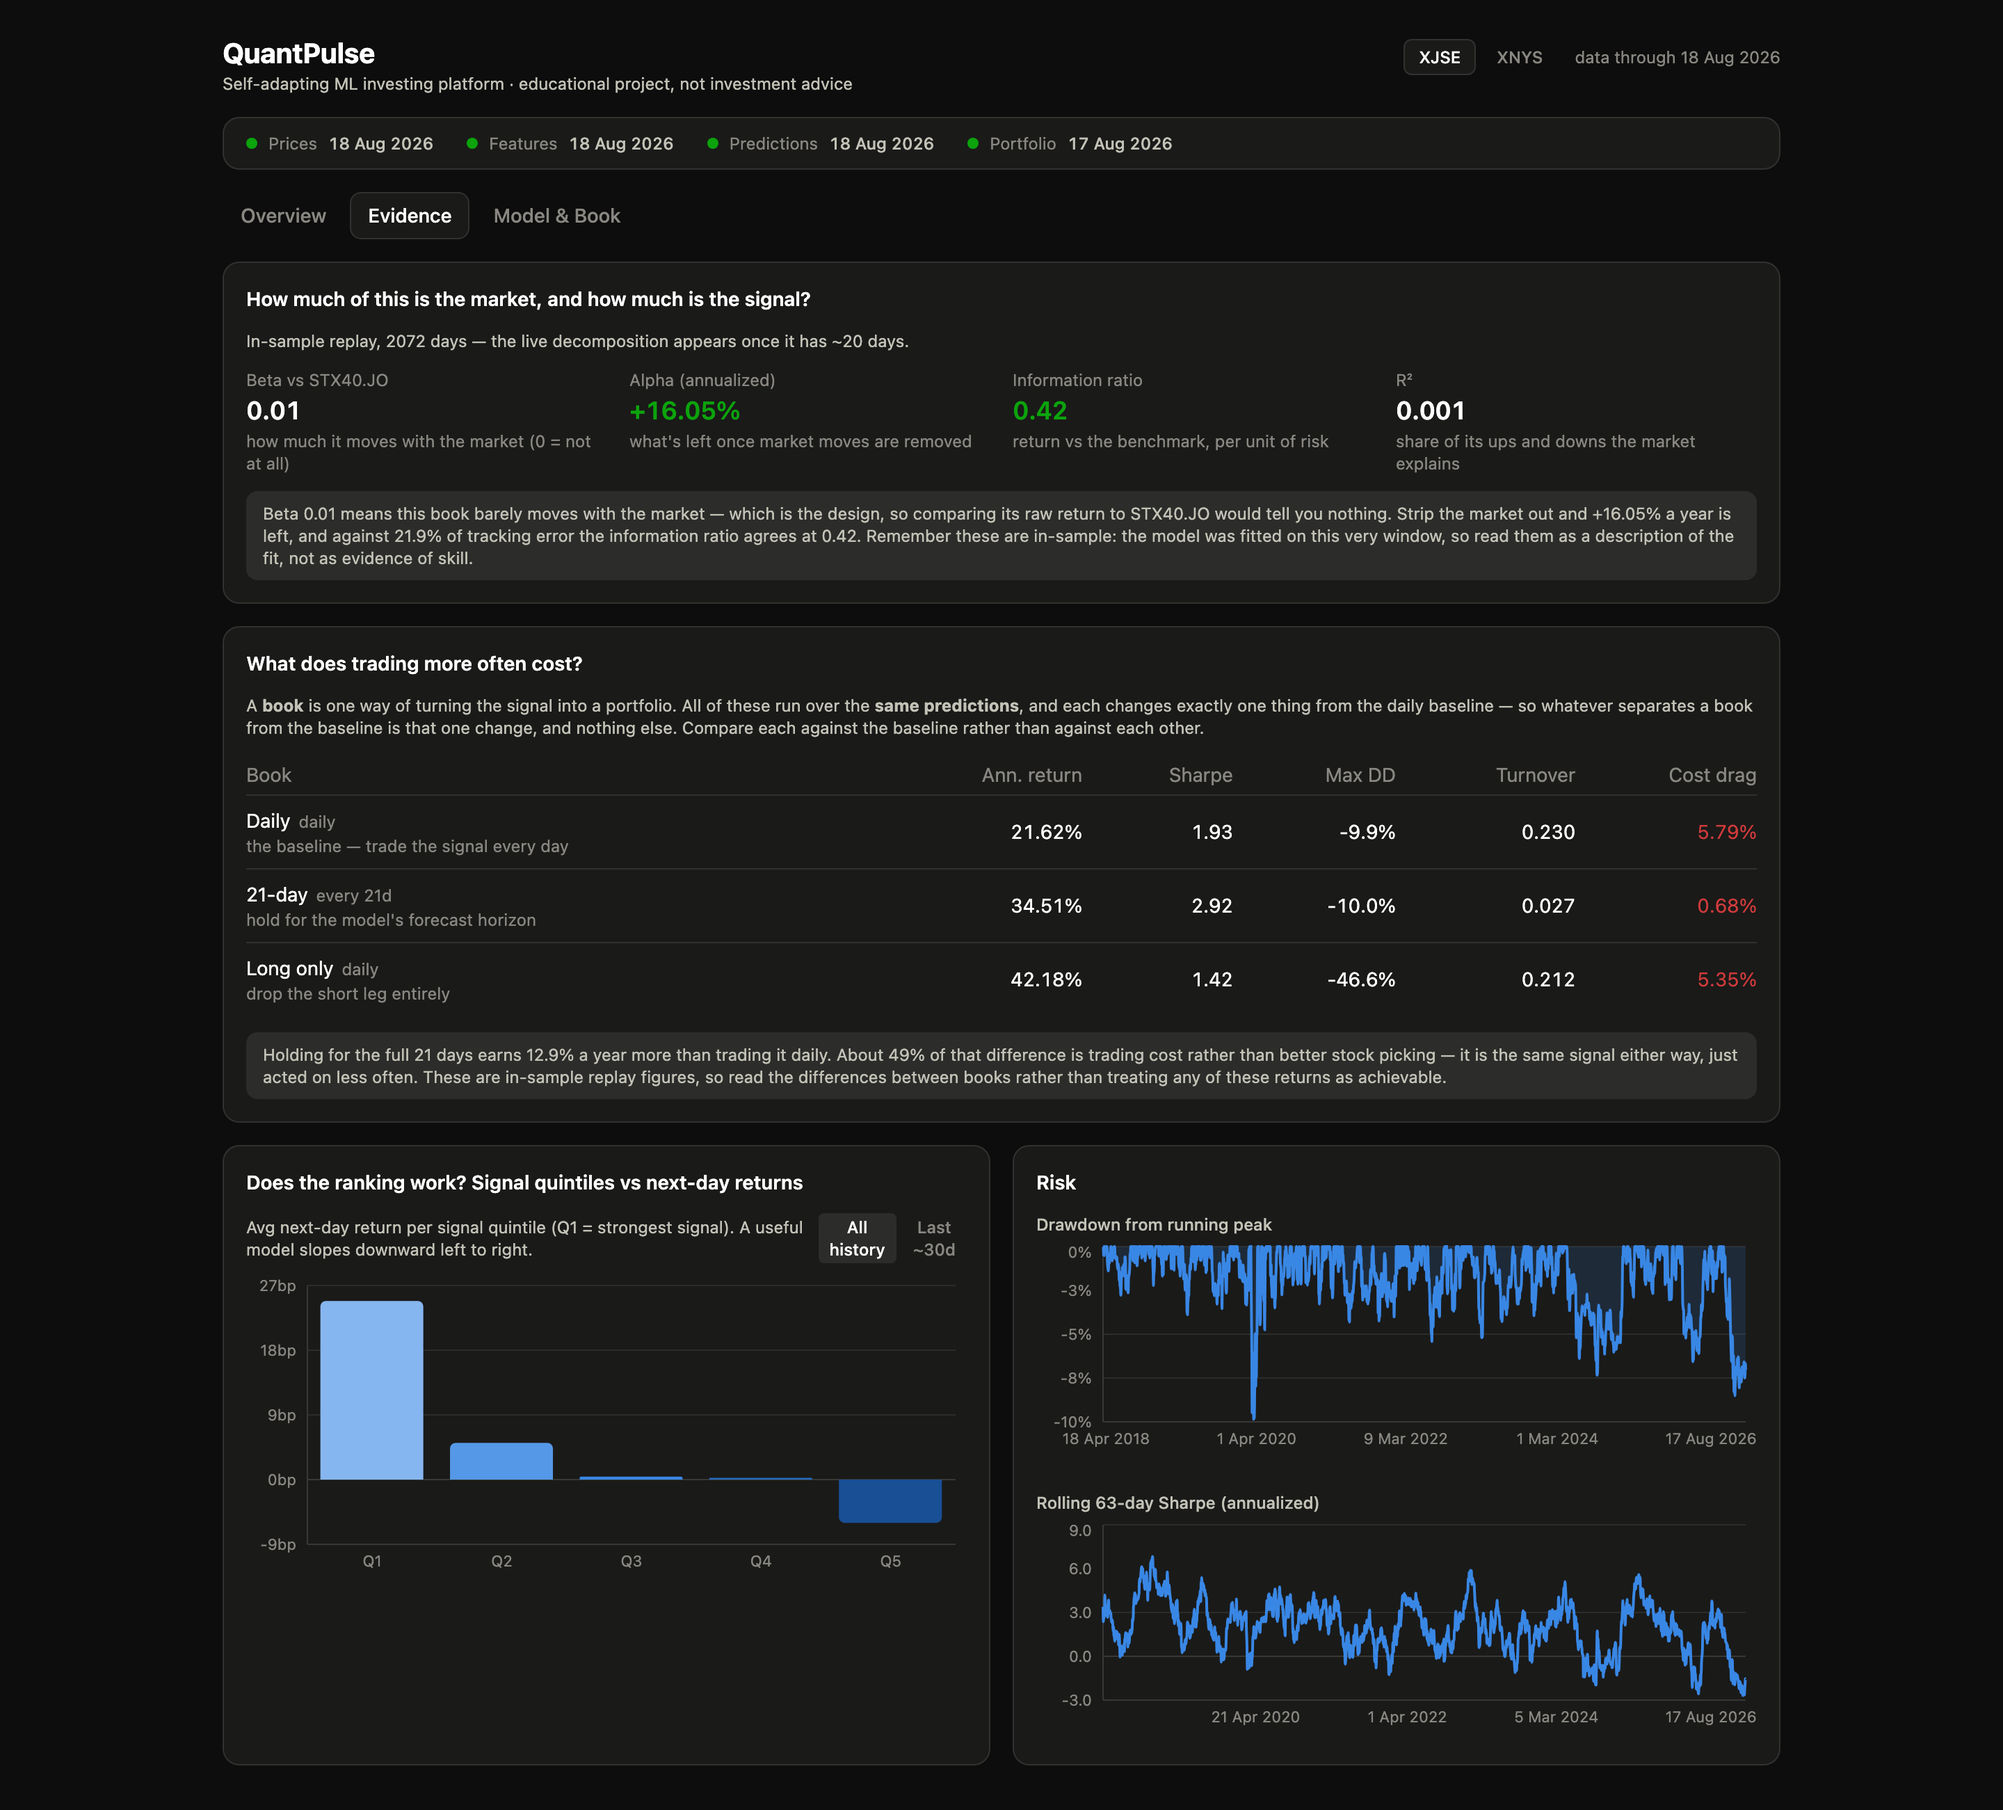
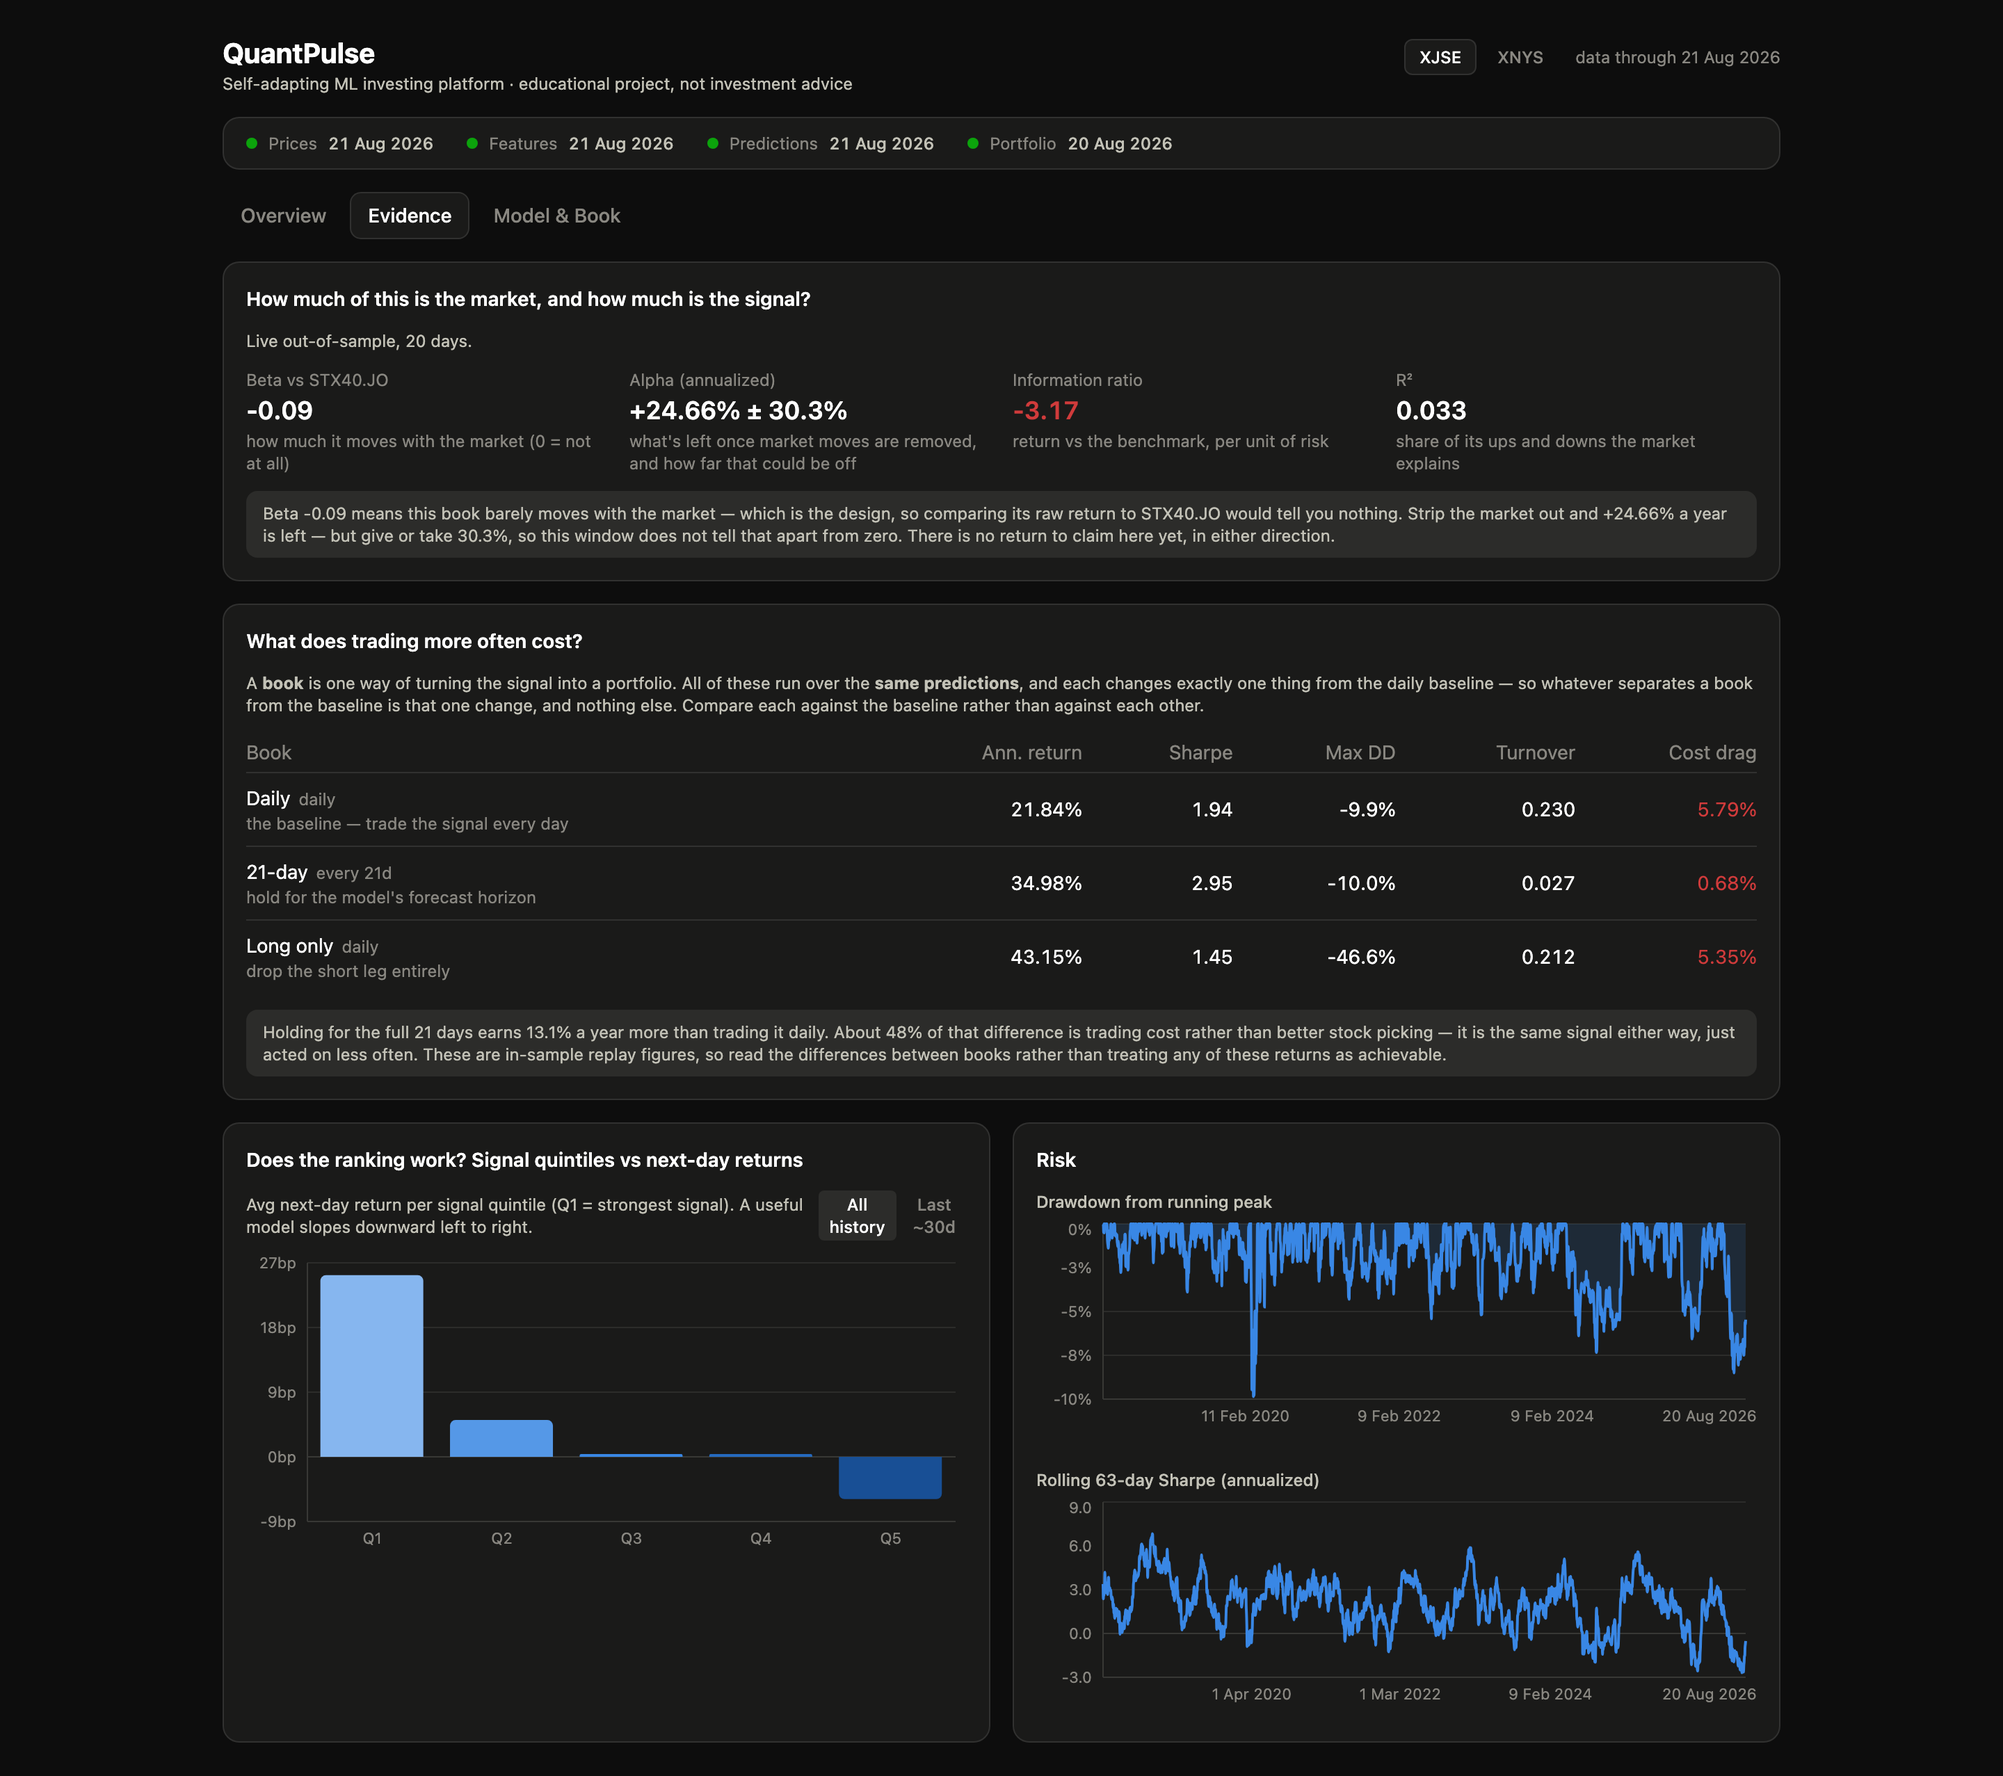
Regenerate the screenshots, and fix the height in the recipe
The captures were from 19 Aug and predate today's dashboard change: alpha now
carries its standard error and is no longer coloured green or red when the
window cannot tell it from zero. The JSE also crossed the twenty-session floor,
so its decomposition publishes for the first time. Both evidence tabs
misrepresented the UI.

The recipe's fixed height was the real problem. `document.body.scrollHeight`
is the right metric, but it has to be read with the viewport already at 1440 -
the layout reflows, and a height measured at a narrower width is roughly twice
too tall. Measuring at the wrong width first produced captures with a full page
of empty black beneath the content. Heights are now recorded per tab: overview
1257, evidence 1277, options 1149, model-book 686.

diff --git a/docs/roadmap.md b/docs/roadmap.md
@@ -350,15 +350,19 @@ measuring momentum rather than the model. Detail in [ml-test-score.md](ml-test-s
    the first JSE promotion (2026-07-23). A holdout Sharpe of 1.5 on 29 names is either
    signal or a favourable draw — the momentum-rich 2025 stretch (incident 24) leans
    toward the latter — and only accumulated live days distinguish them.
-3. **Screenshots** carry data through 23 Jul 2026. They are structurally current — market
-   switcher, all three tabs, the alpha/beta panel — but every evidence panel still reads
-   "in-sample replay", because the live phase had not accrued. The moment worth
-   regenerating on is XNYS crossing the 20-day floor, when the live decomposition appears
-   for the first time. Recipe, per market:
+3. **Screenshots** carry data through 21 Aug 2026 and show the live decomposition on both
+   markets, including alpha with its standard error. Regenerate when the dashboard changes
+   shape or the live record reaches a milestone worth showing. Recipe, per market and tab:
    `"/Applications/Google Chrome.app/Contents/MacOS/Google Chrome" --headless --disable-gpu
-   --hide-scrollbars --force-device-scale-factor=2 --window-size=1440,1230
-   --screenshot=docs/assets/dashboard.png --virtual-time-budget=9000 "http://localhost:8080/?market=XNYS#overview"`
-   (tab slugs `overview`/`evidence`/`options`/`model-book`, `?market=XNYS|XJSE`; tune height).
+   --hide-scrollbars --force-device-scale-factor=2 --window-size=1440,HEIGHT
+   --screenshot=docs/assets/dashboard.png --virtual-time-budget=9000
+   "http://localhost:8080/?market=XNYS#overview"` (tab slugs
+   `overview`/`evidence`/`options`/`model-book`, `?market=XNYS|XJSE`).
+   **Measure HEIGHT at 1440 width**, not at whatever the browser happens to be: read
+   `document.body.scrollHeight` with the viewport already at 1440, because the layout
+   reflows and a height taken at a narrower width leaves a page of empty black below the
+   content. Current values — overview 1257, evidence 1277, options 1149, model-book 686.
+
 4. **Options history analytics** — once ~20+ snapshots exist: IV rank/percentile,
    realized-vs-implied volatility, IV-change signals. This is the payoff for the
    snapshot-forward design, and it needs no new data source.

diff --git a/CLAUDE.md b/CLAUDE.md
@@ -326,9 +326,10 @@ can't attribute its own results. Measured: daily 7.8%/0.73 Sharpe vs horizon
 - Backlog: rename dbt `tests:`→`data_tests:` when tooling nags; Databricks Free Edition
   companion project (same pipeline as PySpark/Delta); richer features/models only after
   live evidence accumulates; options history analytics once ~20+ snapshots exist.
-  Screenshots carry data through 2026-07-23 and are structurally current (switcher, all
-  tabs); regenerate once XNYS crosses the 20-day floor — recipe in
-  docs/roadmap.md "Next".
+  Screenshots carry data through 2026-08-21 and show the live decomposition on both
+  markets; regenerate when the dashboard changes shape — recipe in docs/roadmap.md "Next",
+  and measure the capture height at 1440 width or the page reflows and the shot gains a
+  tail of empty black.
 - **Declined, don't re-propose**: a local LLM Q&A layer over the data
   ([ADR 0004](docs/adr/0004-no-llm-question-answering-layer.md)). The `verdict()` functions
   in the React cards ARE the summarization layer — deterministic, unit-tested, cannot
